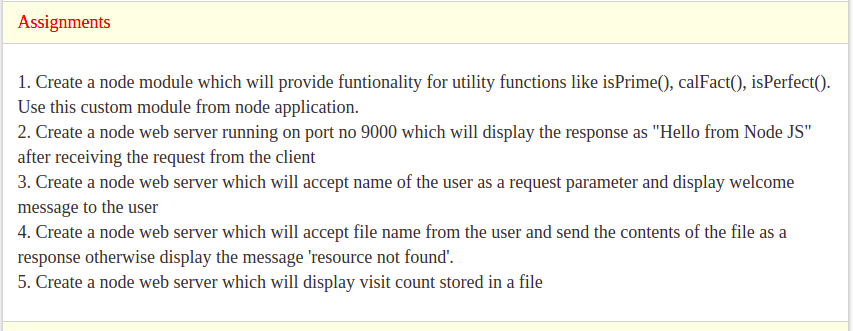
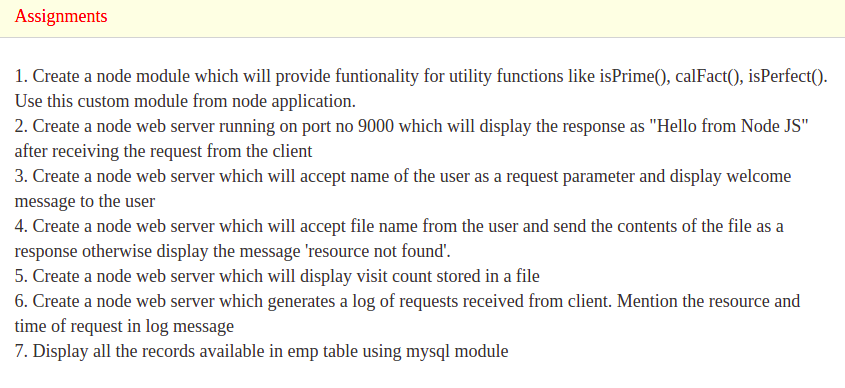
Intro Node and Node Modules

Changed region(s): [[0.0, 0.0, 1.0, 1.0]]

diff --git a/Web Programming/26-7-d10/Assignments/modules_7.js b/Web Programming/26-7-d10/Assignments/modules_7.js
@@ -1,0 +1,45 @@
+var http = require('http');
+var mysql = require('mysql');  
+
+var con = mysql.createConnection({
+    host: "localhost",
+    user: "admin",
+    password: "password",
+    database: "knowitdb"		
+});
+
+con.connect(function(err){
+     if(err)
+	console.log(err.toString());
+     else
+	console.log("Connected");		
+});
+
+http.createServer(function(req,res){
+     if(req.url == '/emps')
+     {
+	 
+	 con.query("select * from knowitdb.EMP",function(err,result){
+		if(!err)
+		{
+			res.writeHead(200,{'Content-Type':'text/html'});
+			res.write("<table border=1>");
+			res.write("<th>EMPNO</th>");
+			res.write("<th>EmpName</th>");
+			result.forEach(function(v){
+				res.write("<tr>");
+				res.write("<td>"+v.EMPNO+"</td>");
+				res.write("<td>"+v.ENAME+"</td>");
+			
+				res.write("</tr>");
+			});
+			res.end();
+		}		
+	});
+     }
+}).listen(9000);
+
+console.log("Node web server running on 9000")
+
+//ALTER USER 'admin'@'localhost' IDENTIFIED WITH mysql_native_password BY 'password';
+//select * from knowitdb.EMP;

diff --git a/Web Programming/26-7-d10/Assignments/modules_6.js b/Web Programming/26-7-d10/Assignments/modules_6.js
@@ -1,0 +1,20 @@
+var h = require('http');
+var u = require('url');
+var f = require('fs');
+
+h.createServer(function(req,res){
+	var url_parts = u.parse(req.url,true);
+        var fname = url_parts.pathname;
+	var time = new Date();
+        var str = "Request received for "+fname+" at "+time+"\n";
+        f.appendFile('log.txt',str,function(err){
+		if(!err)
+			console.log("logged the request");
+	});
+	res.writeHead(200,{'Content-Type':'text/html'});
+	res.write("Hello, Your request is logged ");
+	res.end();
+
+}).listen(9000);
+
+console.log("server started at 9000");

diff --git a/Web Programming/26-7-d10/Assignments/modules_5.js b/Web Programming/26-7-d10/Assignments/modules_5.js
@@ -1,0 +1,21 @@
+var h = require('http');
+var f = require('fs');
+
+h.createServer(function(req,res){
+	if(req.url == '/favicon.ico')
+		return;
+	f.readFile('count.txt',function(err,data){
+		var cnt = parseInt(data);
+		cnt++;
+		f.writeFile('count.txt',String(cnt),function(err){
+			if(!err)
+				console.log("count updated");
+		});
+		res.writeHead(200,{'Content-Type':'text/html'});
+		res.write("<h3>Request count : "+cnt+"</h3>");
+		res.end();	
+	});
+
+}).listen(9000);
+
+console.log("node server running on 9000")
